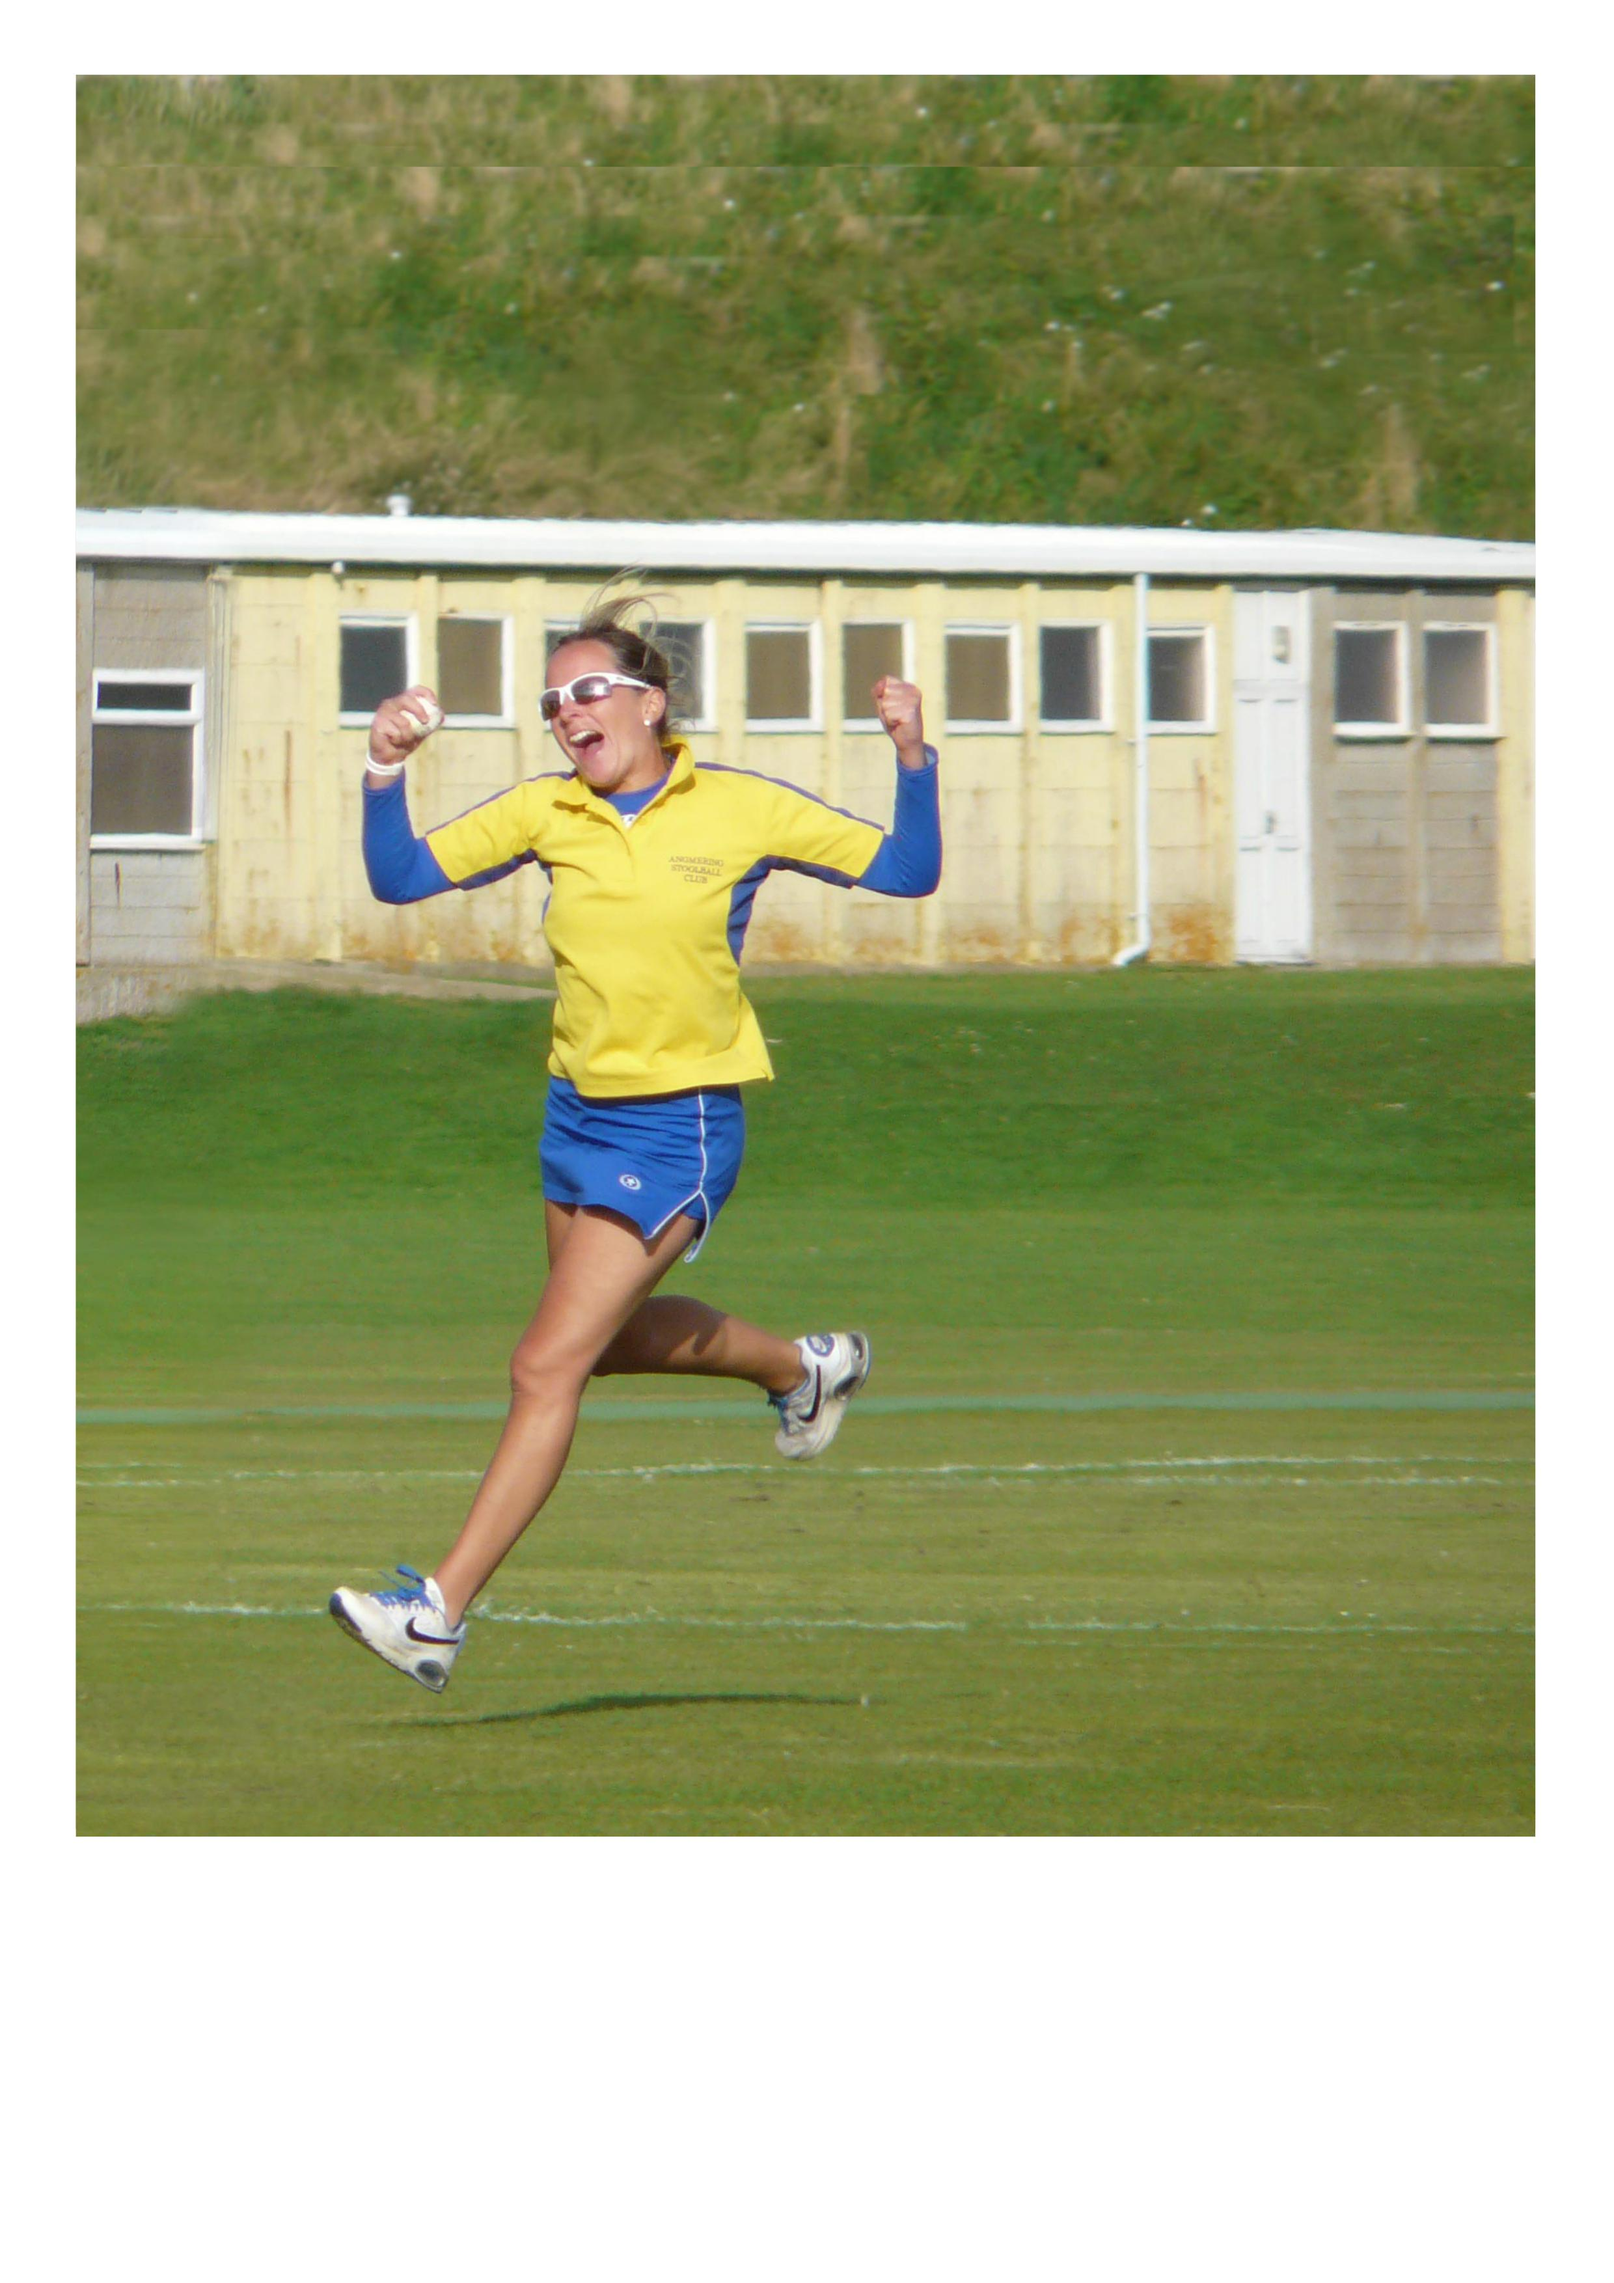
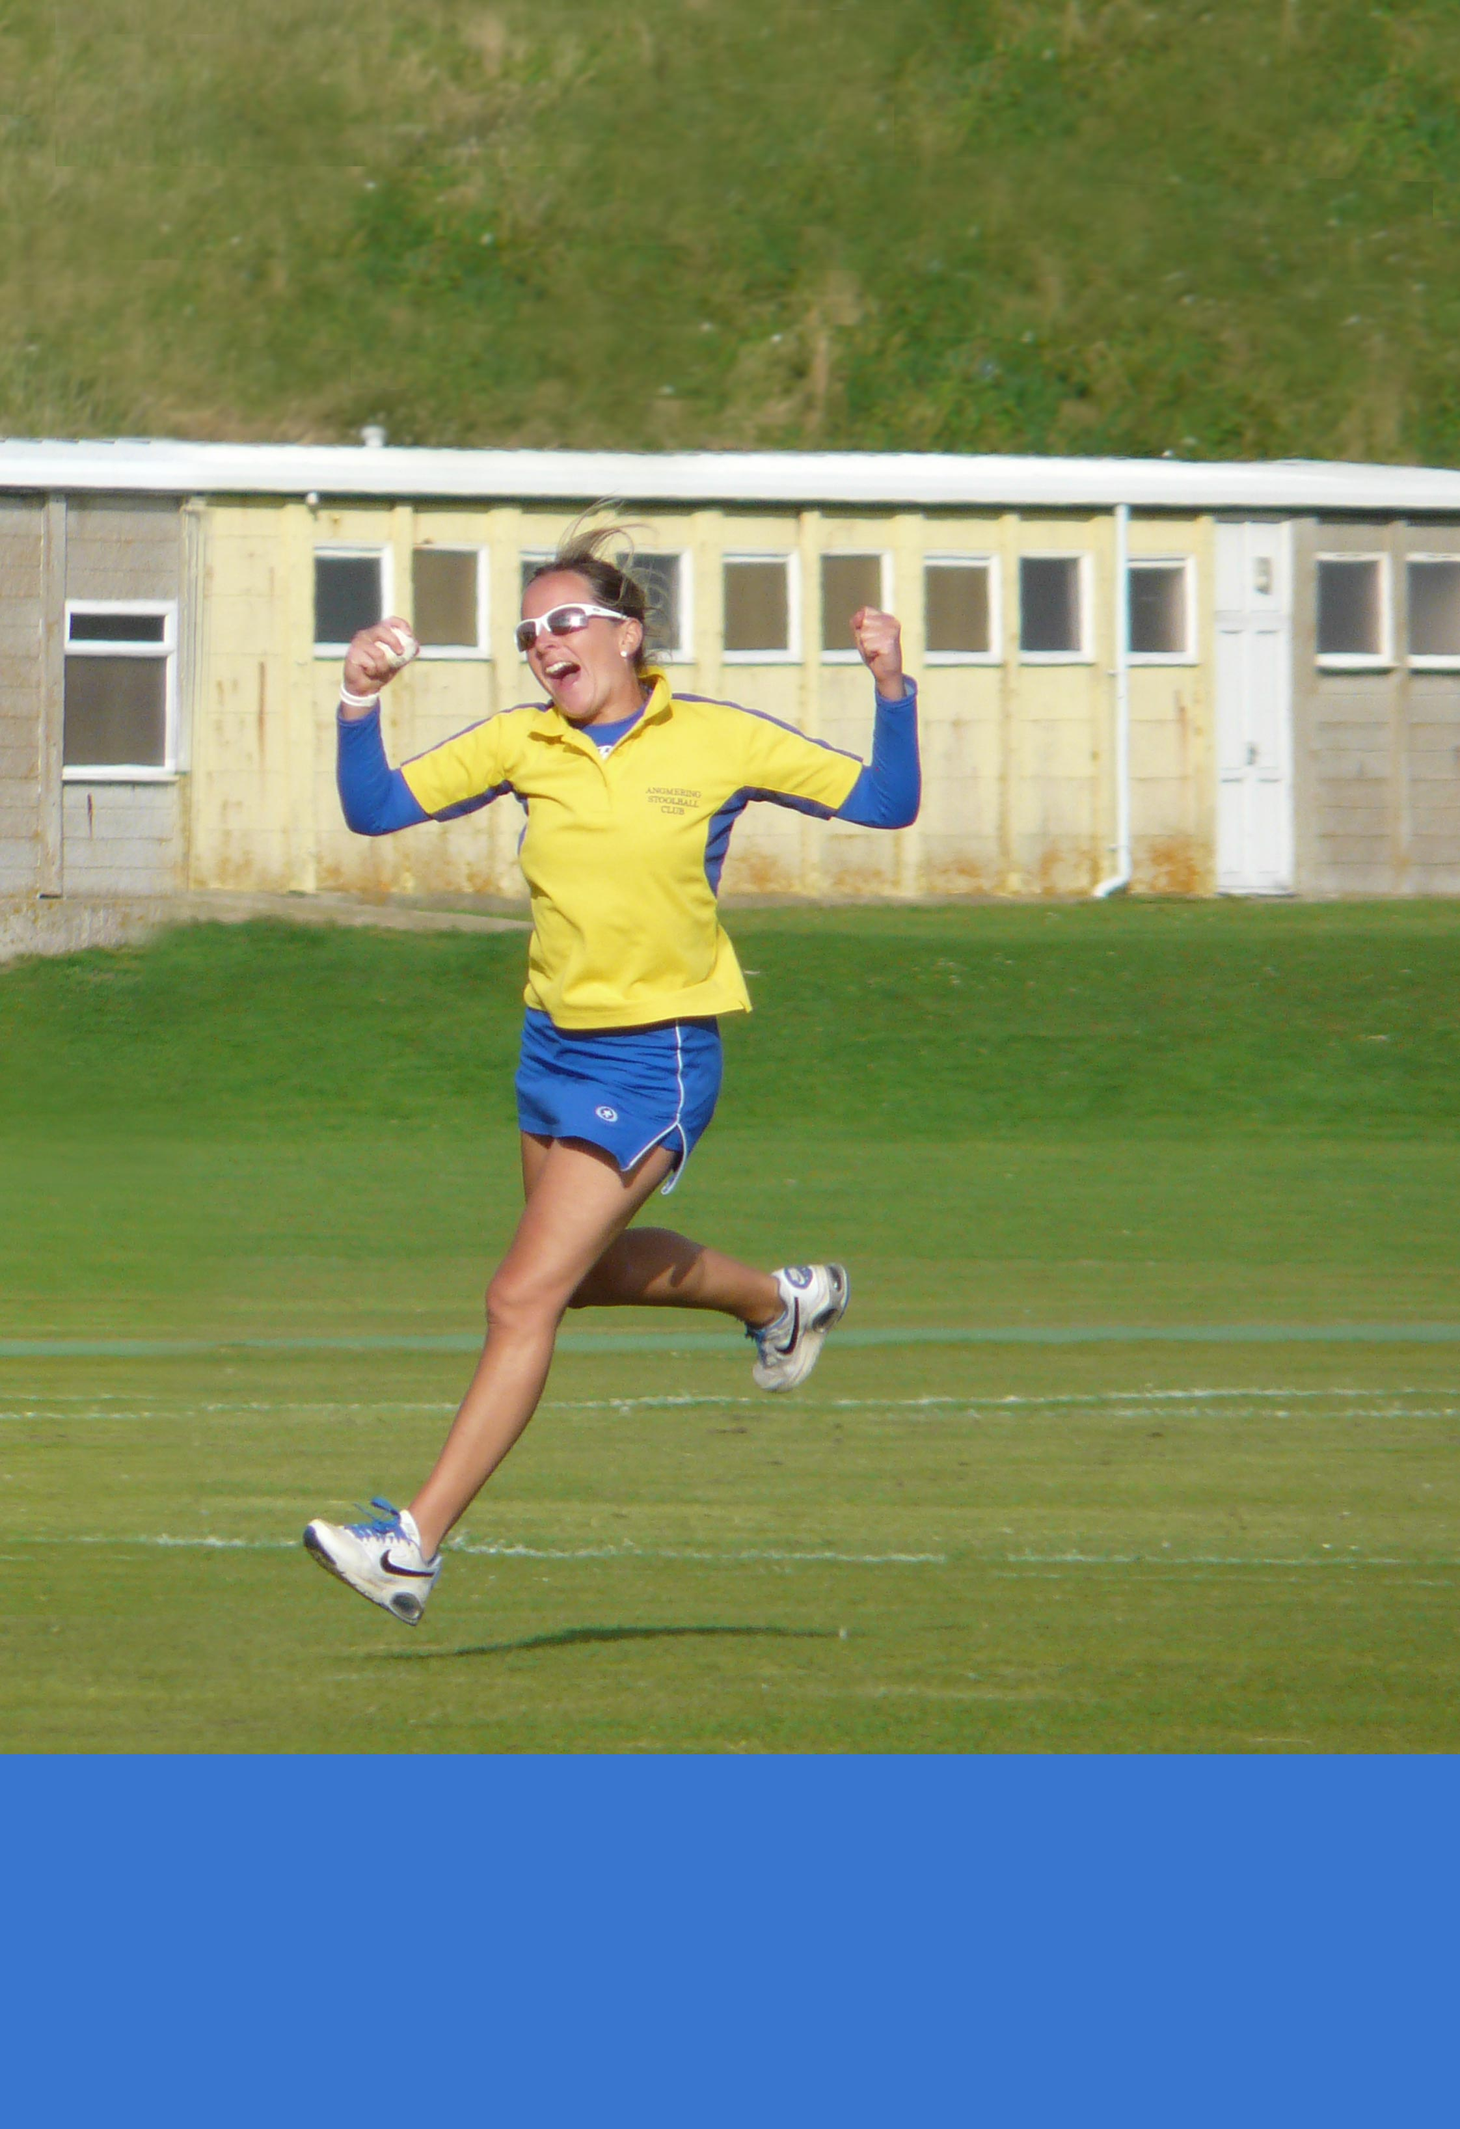
Finalise first design

diff --git a/public_html/css/mobile.css b/public_html/css/mobile.css
@@ -371,10 +371,10 @@ a.icalendar { padding-left: 20px; background: url(/images/sprite.4.png) no-repea
 /* height is (pixels/567)*100 
    width is (pixels/400)*100 */
 #poster-preview p { position: absolute; margin: 0; color: #fff; }  
-#preview-title { top: 5.29%; left: 11.75%; width: 80%; font: normal 67px 'league-gothic'; }
+#preview-title { top: 5.29%; left: 10%; width: 80%; font: normal 67px 'league-gothic'; }
 #preview-slogan { top: 44.97%; left: 62.25%; width: 30%; font: normal 45px/1.15em 'league-gothic'; }
-#preview-name { top: 81.48%; left: 11.75%; width: 80%; font: 800 19px 'Alegreya Sans'; }
-#preview-details { top: 85.54%; left: 11.75%; width: 80%; font: 500 10.3px 'Alegreya Sans'; }
+#preview-name { top: 81.48%; left: 10%; width: 80%; font: 800 19px 'Alegreya Sans'; }
+#preview-details { top: 85.54%; left: 10%; width: 80%; font: 500 10.3px 'Alegreya Sans'; }
 
 form.poster { padding: 0 9px 0 0; margin-bottom: 2em; }
 form.poster label { font-weight: bold; margin: 1em 0 .5em; }

diff --git a/public_html/play/posters/download/index.php b/public_html/play/posters/download/index.php
@@ -49,14 +49,13 @@ return $html;
 }
 
 // Add the background image, and draw a box for the text 
-$pdf->Image('../designs/connie.jpg', 0, 0, 210, 297, 'JPG', '', '', false);
-$pdf->Rect(10, 237, 190, 50, 'F', '', array(59,118,210));
+$pdf->Image('../designs/connie.jpg', 10, 10, 190, 277, 'JPG', '', '', false);
 $pdf->SetTextColor(255,255,255);
 
 $title = sanitisePostedData('title', 18);
 $pdf->SetTitle($title);
 $pdf->SetFont('league-gothic', '', 100, '', true);
-$pdf->writeHTMLCell(200, 200, 20, 35, buildHTML('h1', $title), 0, 1, 0);
+$pdf->writeHTMLCell(200, 200, 18, 35, buildHTML('h1', $title), 0, 1, 0);
 
 $slogan = sanitisePostedData('slogan', 27);
 $pdf->SetFont('league-gothic', '', 70, '', true);
@@ -64,11 +63,11 @@ $pdf->writeHTMLCell(80, 200, 130, 135, buildHTML('p', $slogan, 80), 0, 1, 0);
 
 $name = sanitisePostedData('name', 40);
 $pdf->SetFont('AlegreyaSans-ExtraBold', '', 25, '', true);
-$pdf->writeHTMLCell(200, 100, 20, 247, buildHTML('h2', $name), 0, 1, 0);
+$pdf->writeHTMLCell(200, 100, 18, 248, buildHTML('h2', $name), 0, 1, 0);
 
 $details = nl2br(sanitisePostedData('details', 300));
 $pdf->SetFont('AlegreyaSans-Regular', '', 16, '', true);
-$pdf->writeHTMLCell(175, 100, 20, 253, buildHTML('p', $details, 20), 0, 1, 0);
+$pdf->writeHTMLCell(175, 100, 18, 254, buildHTML('p', $details, 20), 0, 1, 0);
 
 // Close and output PDF document
 $pdf->Output('stoolball-poster.pdf', 'I');
